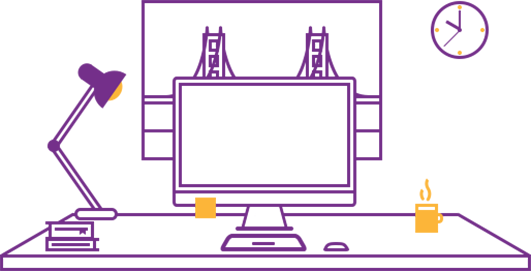
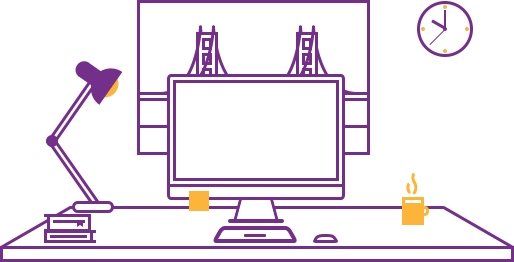
mib

diff --git a/style/styles.css b/style/styles.css
@@ -58,10 +58,10 @@ a:hover                        { text-decoration:none;
     box-sizing: border-box;
     margin: 0 auto;
 }
-/*----------------------------------------------------------------------------------*/
-/*-------------------------------------FONTS----------------------------------------*/
-/*----------------------------------------------------------------------------------*/
-
+input::-webkit-input-placeholder {color:#b5b7bf; }
+input::-moz-placeholder          {color:#b5b7bf; }
+input:-moz-placeholder           {color:#b5b7bf; }
+input:-ms-input-placeholder      {color:#b5b7bf; }
 /*----------------------------------------------------------------------------------*/
 /*-------------------------------------WRAPPER--------------------------------------*/
 /*----------------------------------------------------------------------------------*/
@@ -693,55 +693,60 @@ section h2{
 .request-page .jumbutron{
     text-align: center;
     background: transparent;
-    padding: 127px 0 142px;
+    padding: 133px 0 137px;
     height: 400px;
 }
 .request-page .jumbutron img{
-    margin: 0 0 50px;
+    margin: 0 0 48px;
 }
 .request-page .jumbutron h1{
-    font: 36px "Lato";
+    font: 400 36px/1.5 "Lato";
     color: #2c2c2c;
     padding: 5px;
+    margin-bottom: 33px;
 }
 .request-page .jumbutron p{
     width: 515px;
     color: #282828;
     margin: 0 auto;
-    font: 300 21px "Lato";
+    font: 400 20px/23px "Lato";
+}
+.request-page .content > .form-section{
+    padding-bottom: 70px;
 }
 .form-section fieldset ul{
-    margin: 0 -26px 0 0;
-    overflow: hidden;
+    text-align: center;
 }
 .form-section fieldset li{
-    display: inline-block; 
-    margin: 0 26px 0 0;
+    display: inline-block;
+    margin-left: 27px;
     text-align: center;
+}
+.form-section fieldset li:first-of-type{
+    margin-left: 0;
 }
 .form-section input,
 .form-section select{
-    padding: 18px;
+    padding: 0 18px;
     border-radius: 3px;
+    height: 52px;
     width: 216px;
     border: 1px solid #d6d6d6;
     margin: 0 0 22px;
     display: inline-block;
-
-
-    ::-webkit-input-placeholder {color:#cbccd1; }
-    ::-moz-placeholder          {color:#cbccd1; }
-    :-moz-placeholder           {color:#cbccd1; }
-    :-ms-input-placeholder      {color:#cbccd1; }
+    color: #2f4050;
+    font: 400 16px/16px Lato;
 }
 .form-section .btn{
+    height: 54px;
     width: 254px;
     background: #fcb539;
     text-transform: uppercase;
-    font:600 20px 'Lato';
+    font:600 18px 'Lato';
     border-right: 3px;
-    padding: 14px ;
+    padding: 0 10px;
     border: none;
+    cursor: pointer;
 }
 .form-section .btn:focus{
     border: none;

diff --git a/form.html b/form.html
@@ -15,11 +15,11 @@
         <header class="header">
             <div class="container">
                 <nav class="navbar">
-                    <h1 class="main-logo">
+                    <div class="main-logo">
                         <a href="index.html">
                             <img src="img/header/logo.png" alt="Synata">Synata
                         </a>
-                    </h1>
+                    </div>
 
                     <div class="autorization">
                         <ul>
@@ -40,7 +40,7 @@
         <div class="content">
             <div class="jumbutron">
                 <div class="container">
-                    <img src="img/content/form/ilustr.png" alt="">
+                    <img src="img/content/form/ilustr.png" alt="" width="514" height="262">
                     <h1>Want to see what <strong>Synata</strong> could do for your team?</h1>
                     <p>To see a personalized demo or to get a custom price quote, please fill out a form below</p>
                 </div>
@@ -52,18 +52,13 @@
                             <ul>
                                 <li><input type="text" placeholder="Full Name"></li>
                                 <li><input type="email" placeholder="Email"></li>
-                                <li><input type="text" placeholder="company"></li>
+                                <li><input type="text" placeholder="Company"></li>
                                 <li><input type="button" class="btn text-white" value="Next"> </li>
                             </ul>
                         </fieldset>
                     </form>
                 </div>
             </section>
- 
-
-
-
-
         </div><!--/content-->
     </div>
 
